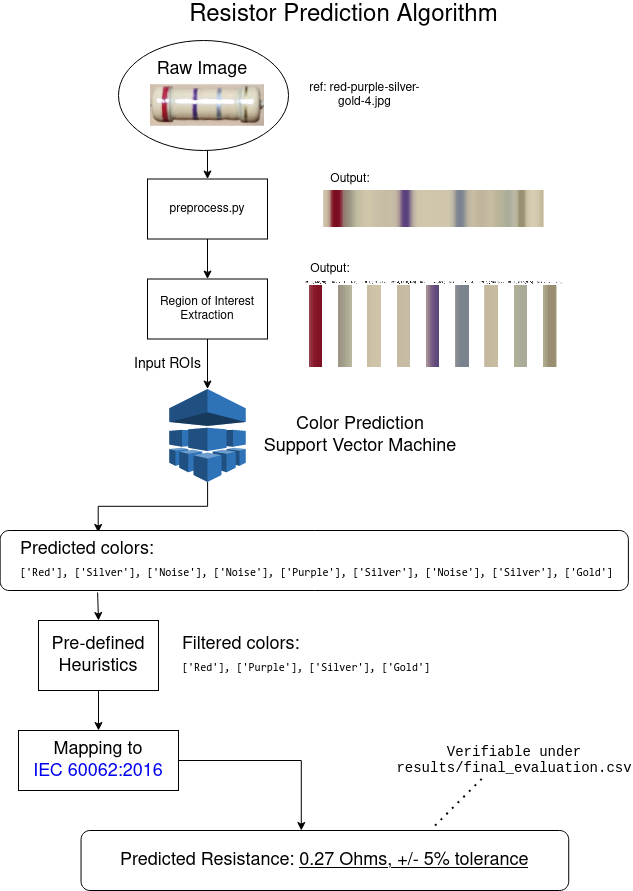
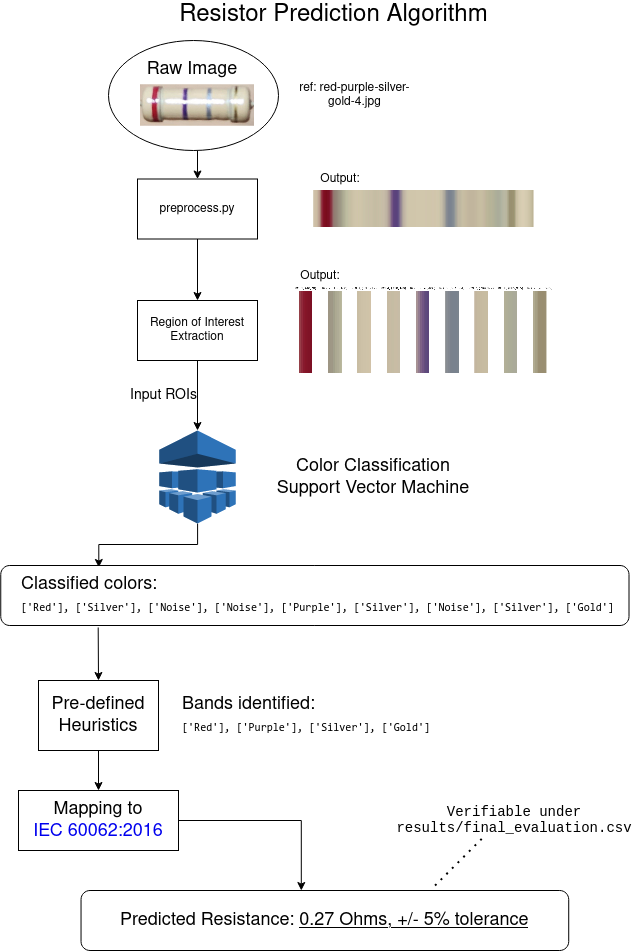
Fix minor wording inaccuracies

diff --git a/readme.md b/readme.md
@@ -1,16 +1,18 @@
-# ResistorPredict
+# ResistorPrediction
 
-ResistorPredict is an experimental machine learning project done over Summer break 2023. It predicts the resistance of a 4-band resistor by giving it an image of a resistor as the input.
+ResistorPrediction is an overengineered approach to use computer vision [OpenCV] + machine learning project done over Summer break 2023. It predicts the resistance of a 4-band resistor by giving it an image of a resistor as the input.
+
+It's basically a colour classification model wrapped with some logic.
 
 The project might find use in applications in areas such as Robotic Process Automation and Education. 
 
-Caveat: This project is NOT production ready. It's upper bound accuracy is 60% based on the limited dataset testing. 
+This project is NOT production ready. It's upper bound accuracy is 60% based on the limited dataset. 
 
 ## Navigating the Repo
-The important bits are in the jupyter notebooks.
-1. Image cleaning @ `exploration_raw_images.ipynb`
+The important bits (methodology + experiments) are in the jupyter notebooks.
+1. Image preprocessing @ `exploration_raw_images.ipynb`
 2. Labelled data experiments @ `exploration_labelled_data.ipynb`
-3. Color prediction ML experiments @ `prediction_experiments.ipynb`
+3. Color classification ML experiments @ `prediction_experiments.ipynb`
 4. Predicting Resistors @ `prodction_resistor_prediction.ipynb`
 
 ## Overview
@@ -27,7 +29,7 @@ To summarise, out of 90 datapoints:
 - Perfect predictions: `36`
 - Partially correct predictions: `18`  
   
-Partially correct predictions are predictions where the first three bands of the resistor are correctly identified. This is "good enough" to get the resistance as the last band is the tolerance.
+Partially correct predictions are predictions where the first three bands of the resistor are correctly identified. This is "good enough" to get the resistance as the last band is the tolerance value.
 
 ## Purpose and Rationale 
 
@@ -53,6 +55,11 @@ The problem statement create the resistor prediction algorithm, a few subproblem
 
 
 ### Known Limitations
-- Only 4 band resistors will work.
-- Pictures with very bright or very dark settings will fail to work well in preprocessing
-- Unusual resistors with non-beige background colors (such as blue, grey) will fail when digested with the resistor predct SVM
+- Only 4 band resistors will work
+- Pictures with very bright or very dark settings will fail to work in preprocessing
+- Unusual resistors with non-beige background colours (such as blue, grey) will likely fail when processed by the Colour Classification SVM
+
+### Area for Improvements
+More data and rigorous labelling will be needed to make the Colour classifier more accurate.  
+
+Colour masking might be needed during the preprocessing stage. This approach was initially avoided in order to prevent presupposing certain ranges for colours which is not generalizable to different lighting conditions.
